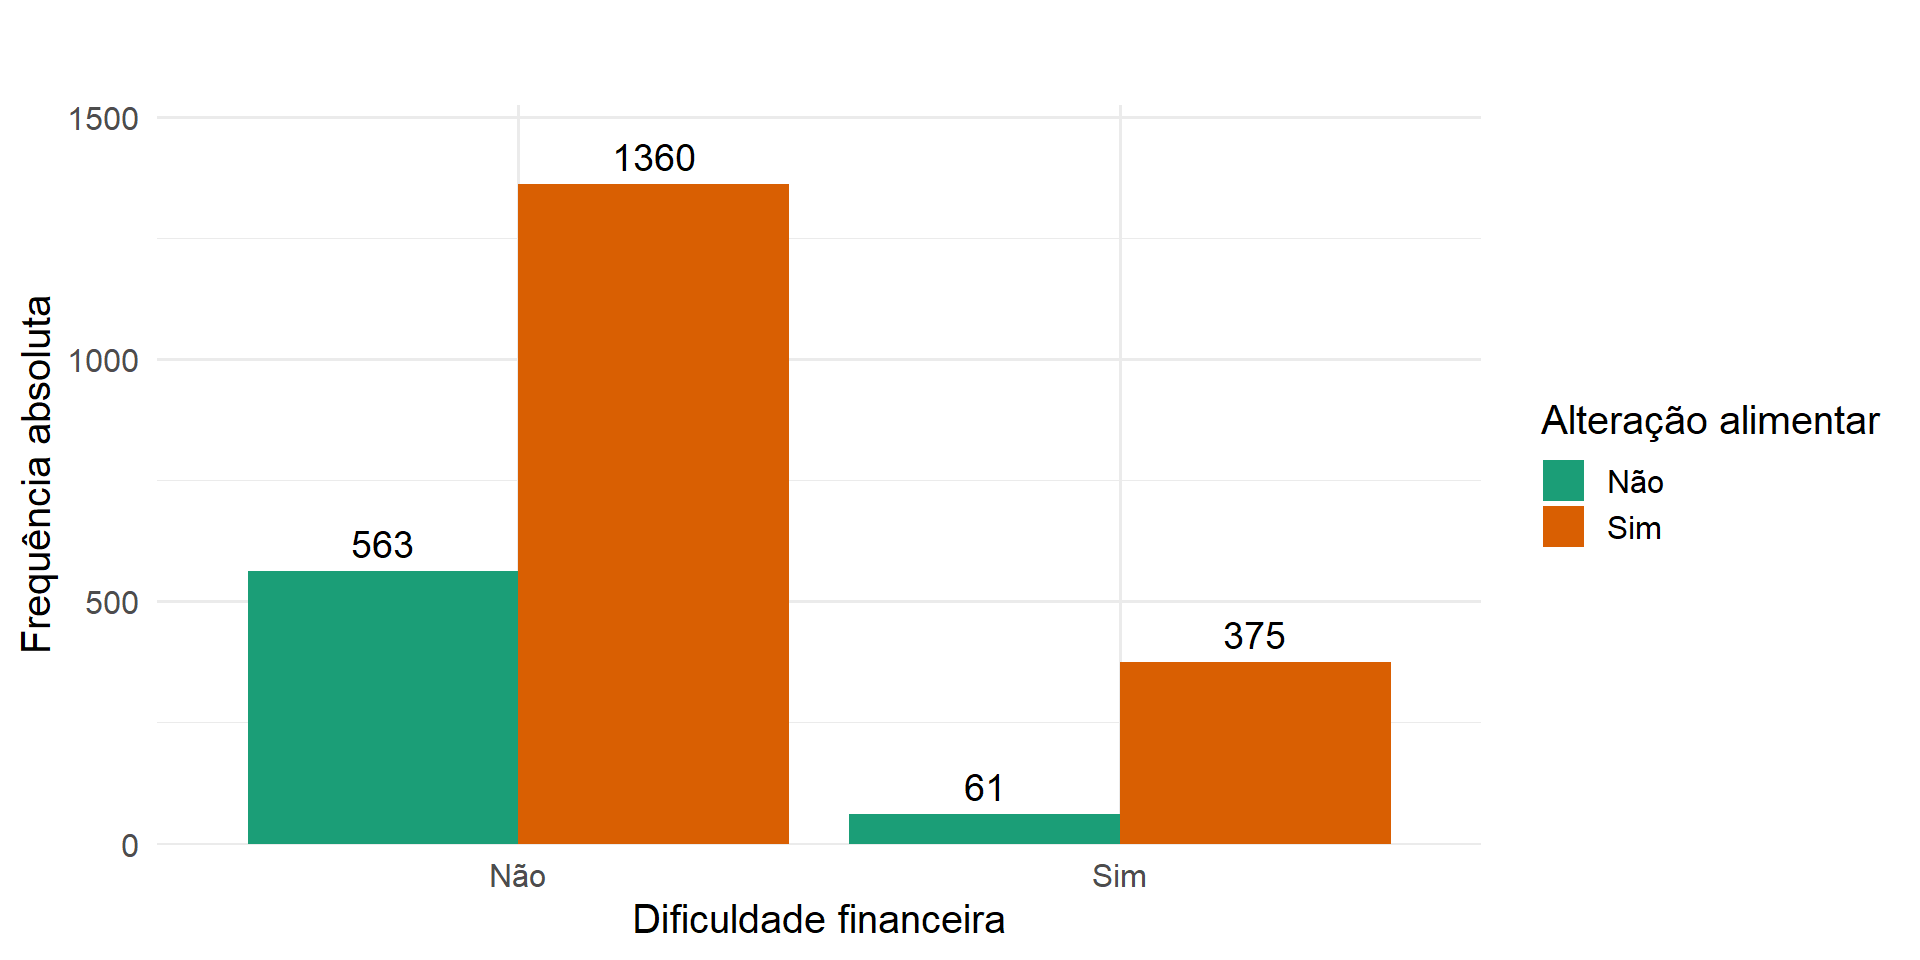
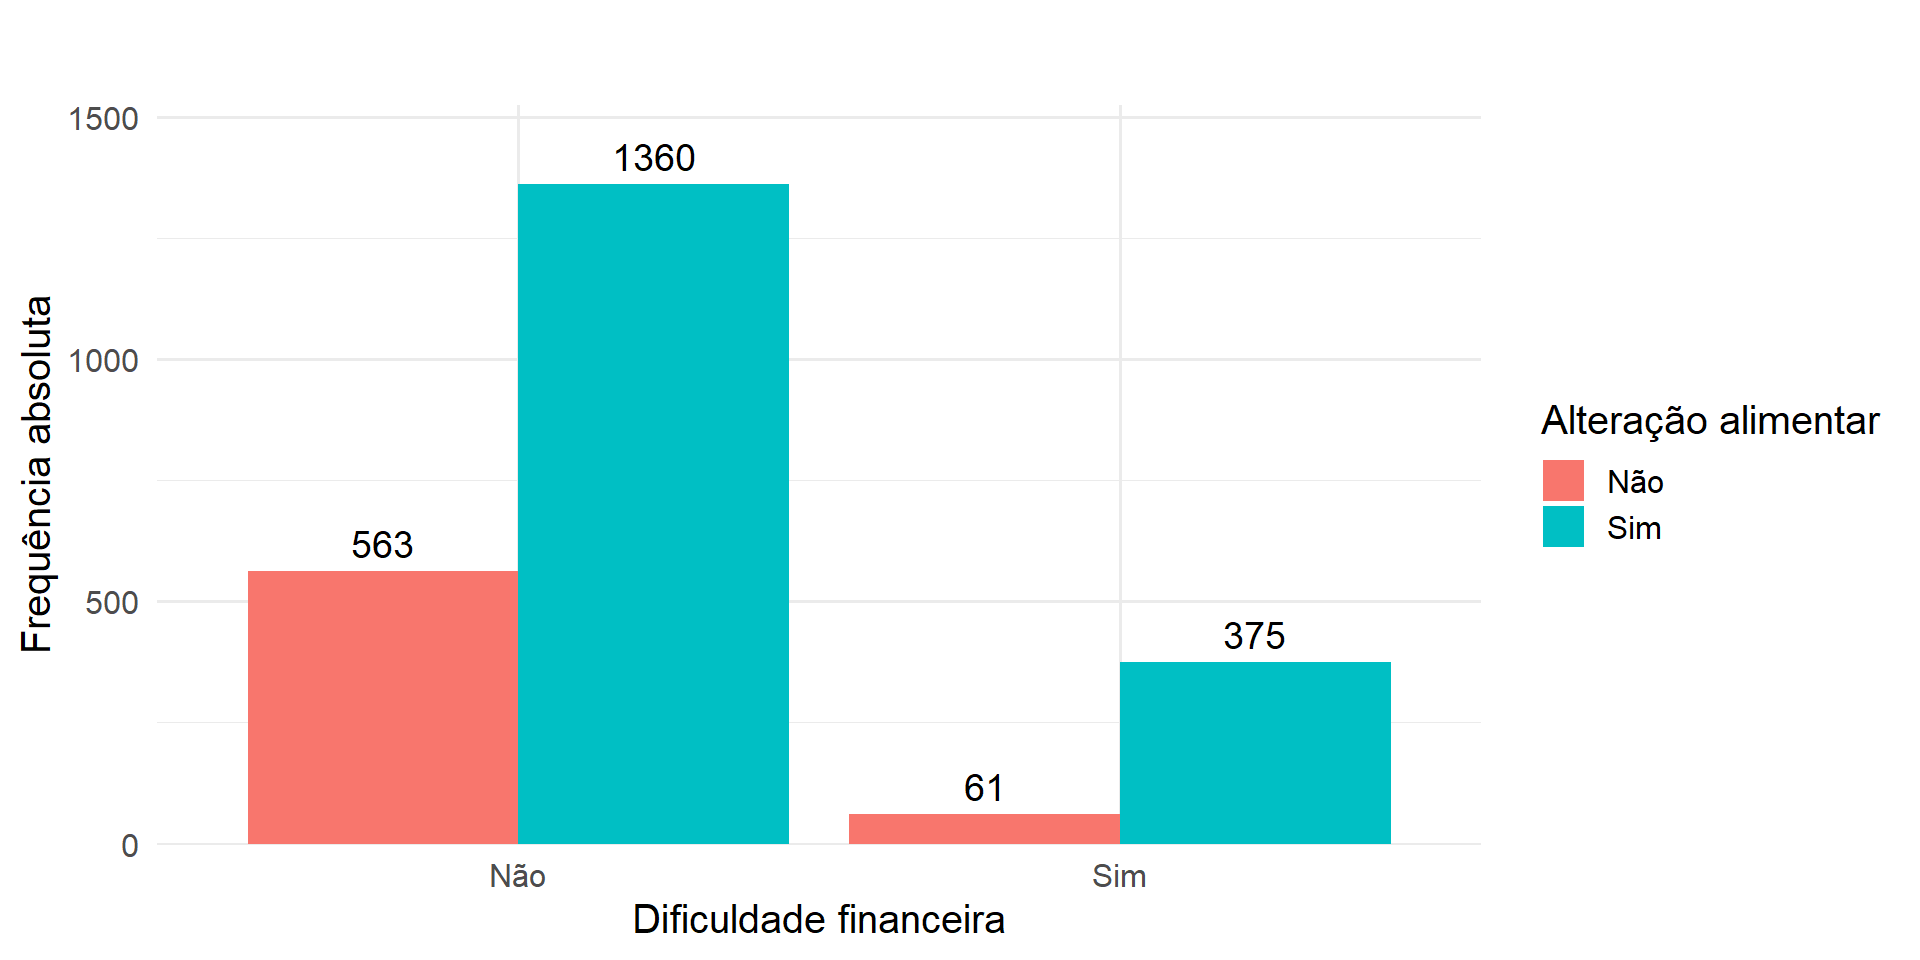
Update

Changed region(s): [[0.125, 0.1875, 0.75, 0.9062], [0.7812, 0.4688, 0.8438, 0.5625]]

diff --git a/docs/index.html b/docs/index.html
@@ -383,7 +383,7 @@ Nayara da Cunha Nunes <br> (<a href="mailto:nayaracn@id.uff.br" class="email">na
 </tr>
 </tbody>
 </table>
-<p><strong>Apresentação:</strong> Quarto + RevealJS</p>
+<p><strong>Apresentação:</strong> Quarto + RevealJS <strong>Puclicação/Web</strong> GitHub Pages | Publicação da apresentação na web |</p>
 
 </section>
     </div>
